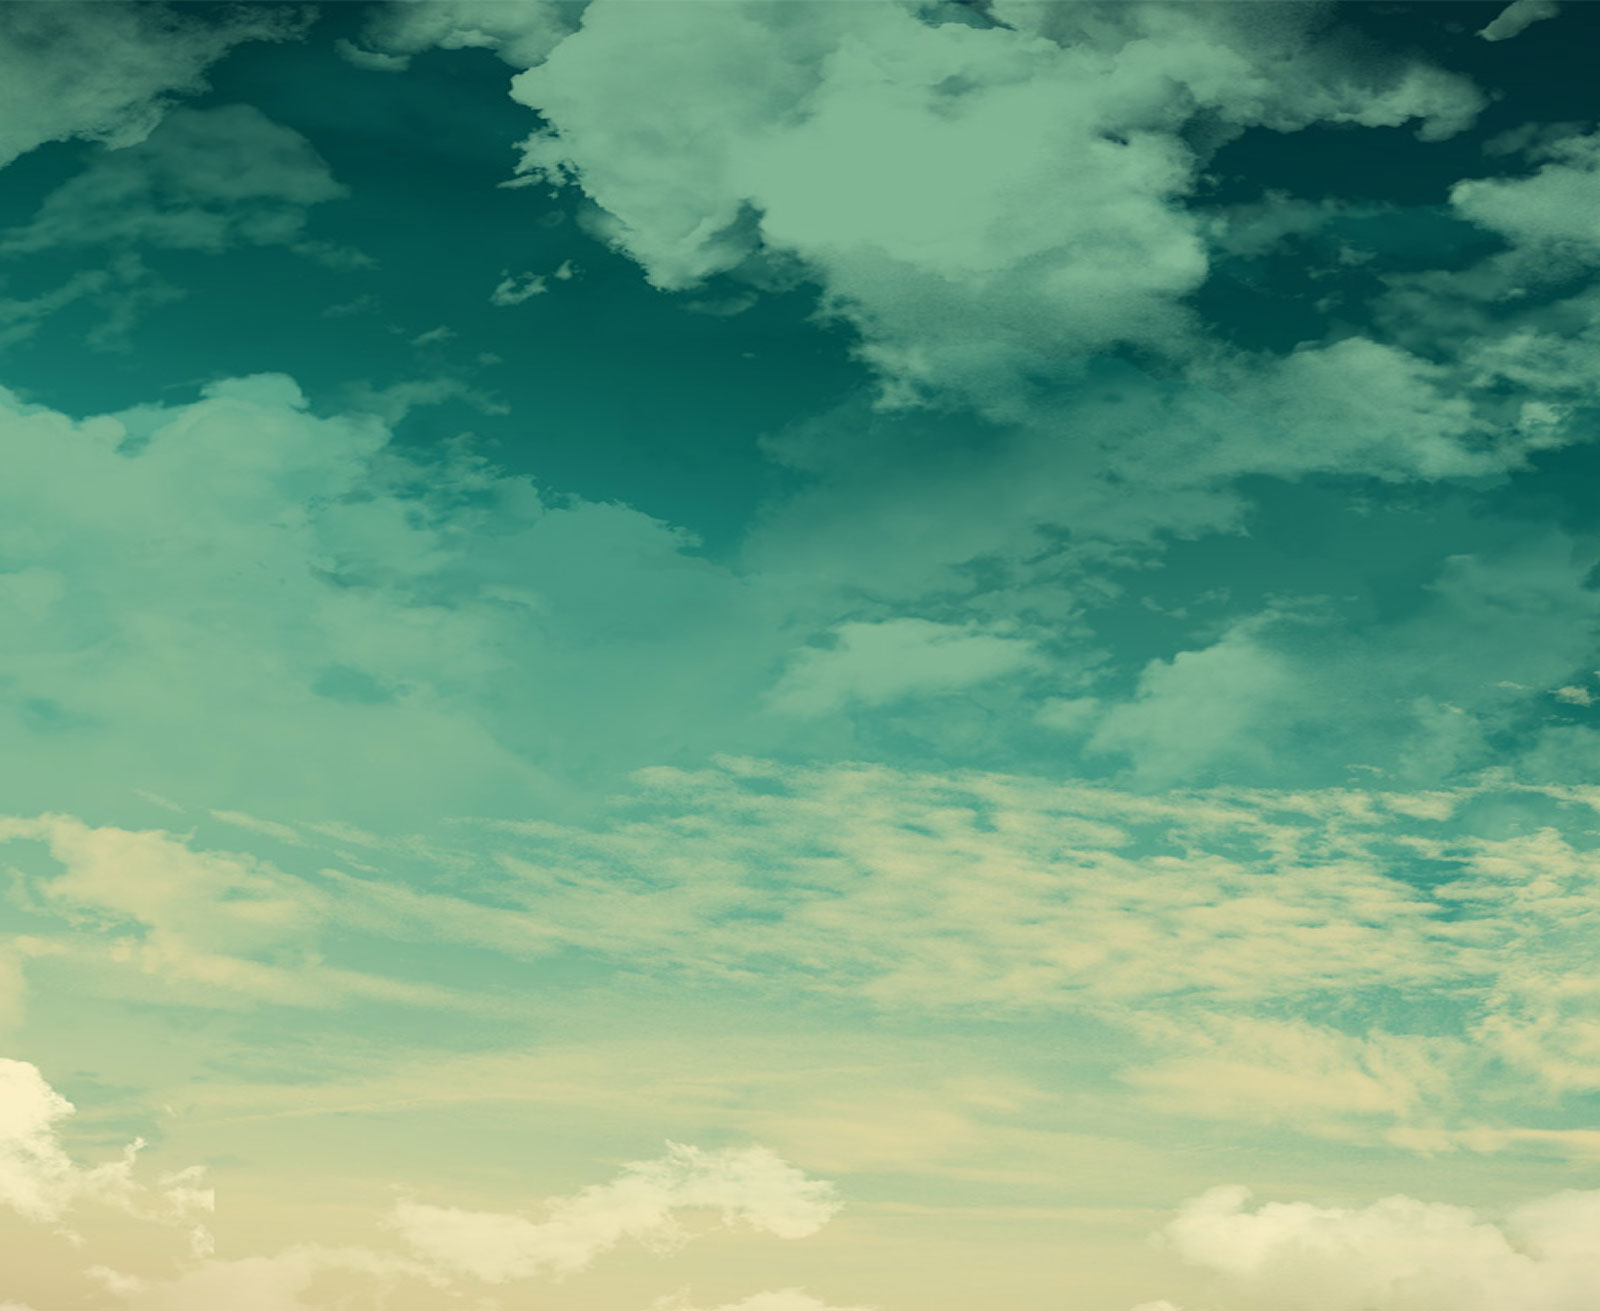
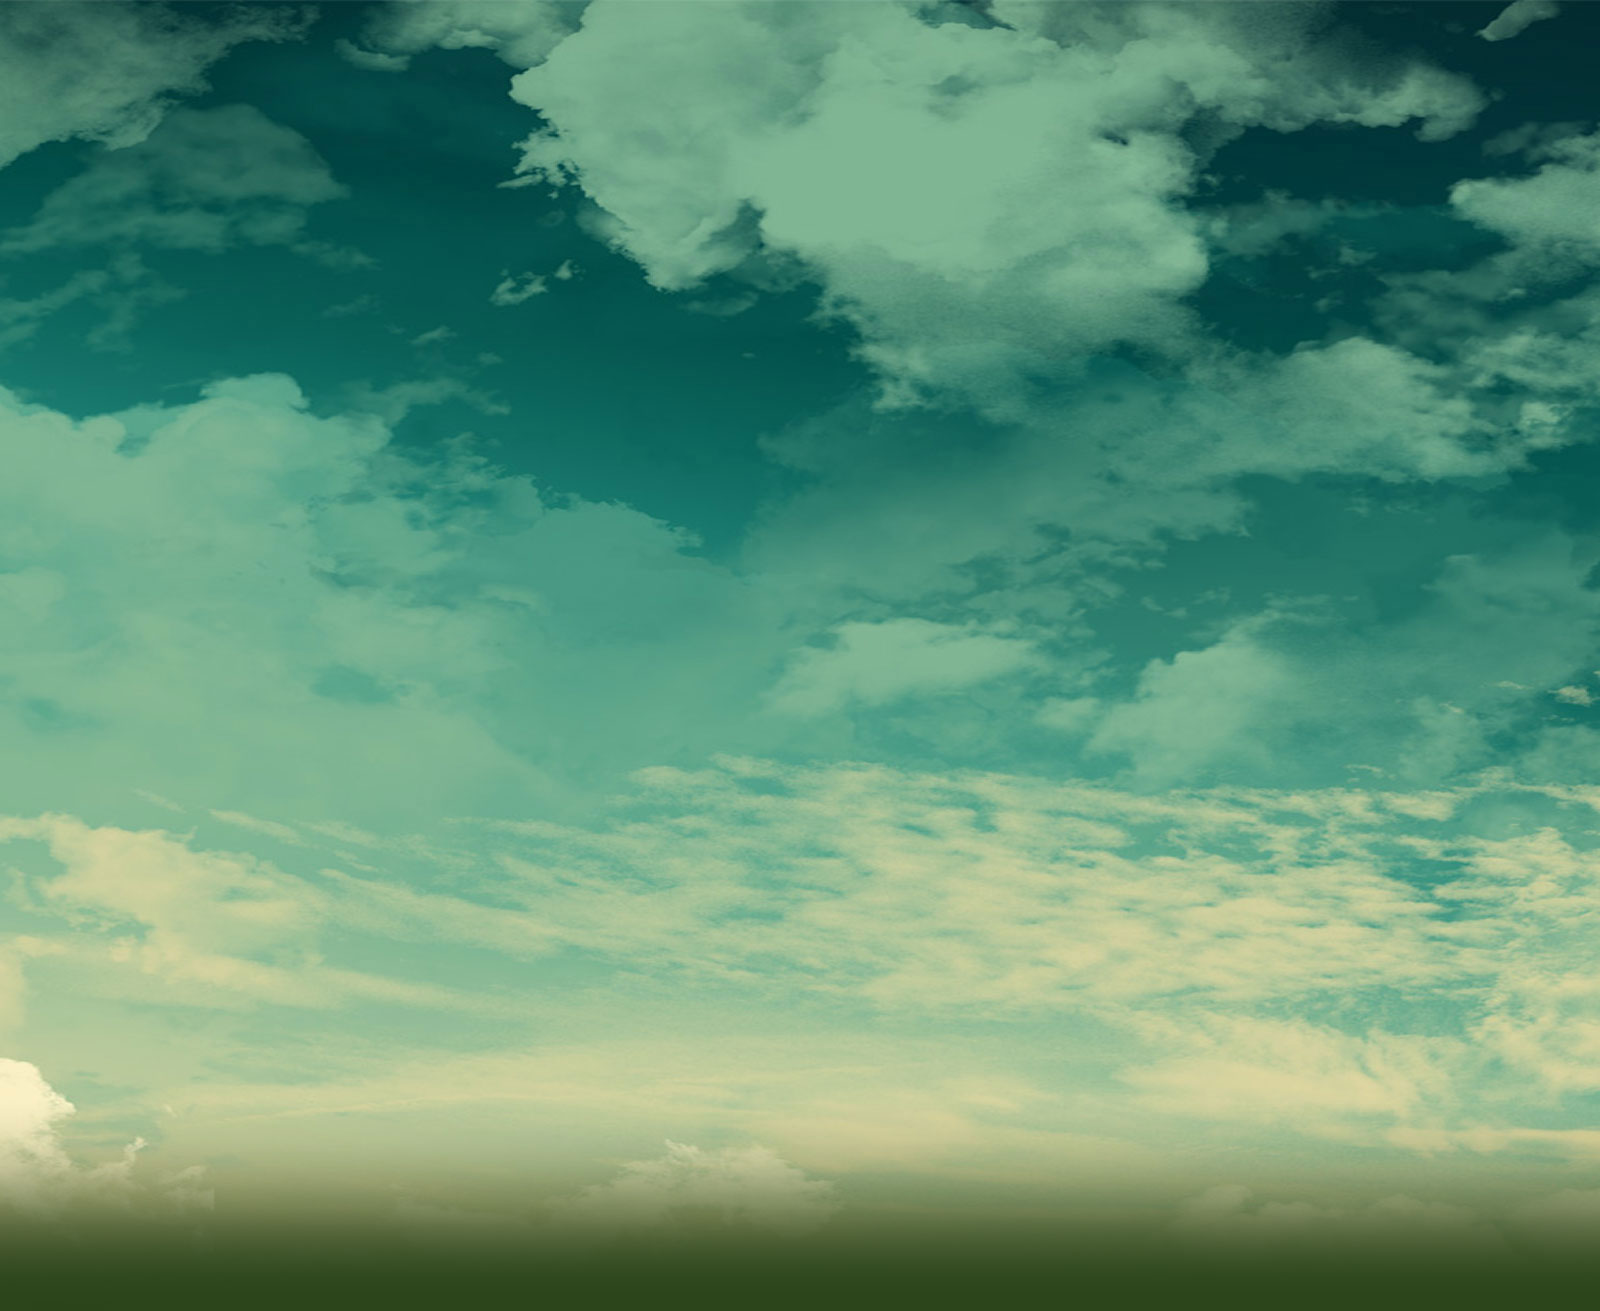
edit bg image

Changed region(s): [[0.0, 0.8543, 1.0, 1.0]]

diff --git a/html/index.html b/html/index.html
@@ -94,7 +94,7 @@ $(window).load(function() {
 				<li><a href="about.html">About</a></li>	
 				<li><a href="calendar.html">Calendar</a></li>	
 				<li><a href="sermons.html">Sermons</a></li>	
-				<li><a href="ministries.html">Ministries</a></li>																	
+				<li><a href="https://tithe.ly/give?c=1311359">Giving</a></li>																	
 				<li><a href="contact.html">Contact Us</a></li>											
 			</ul>
 		</div>
@@ -207,9 +207,9 @@ $(window).load(function() {
 <div class="span6">
 <div class="pad_left20 pad_right20">
 	<h1 class="home">Welcome<br><span>to Kendale Acres Church</span></h1>
-	<h4>
+	<p>
 		Welcome, and thank you for visiting us online today. Our goal, through our online ministry, is to supply needed information and resources to our church family and to introduce our community to the ministries here at Kendale Acres Church. Please take a few moments to look around and if you do not find the information you are looking for, feel free to contact us and we will do all we can to help assist you. 
-	</h4>
+	</p>
 	<p>
 		We are a ministry serving our Lord and Savior in Sanford, NC. We are a member of the National Association of Free Will Baptist. Together it is our desire and goal to reach the world with the message that Jesus Saves. We are a church where the Bible is believed and preached. Where people are friendly and sincerely glad to have you. A church where you are treated as a person not a number. Let me invite you to worship with us, I believe that you will enjoy your visit. 
 	</p>
@@ -293,6 +293,7 @@ Wednesday Bible Study: 7:00 p.m.
 				<div class="bot_title">Follow Us</div>
 				<ul class="ul_social">
 				  <li><a href="http://www.facebook.com/KendaleAcresChurch/"><img src="images/social_ic1.png" alt="" class="img"><span>Facebook</span></a></li>
+					<li><a href="https://www.youtube.com/channel/UC6BcqeNqHifES1-8_t4ZWxg"><img src="images/social_ic3.png" alt="" class="img"><span>Youtube</span></a></li>
 				  
 				</ul>
 			</div>

diff --git a/html/calendar.html b/html/calendar.html
@@ -74,7 +74,7 @@ $(window).load(function() {
 				<li><a href="about.html">About</a></li>	
 				<li class="active"><a href="calendar.html">Calendar</a></li>	
 				<li><a href="sermons.html">Sermons</a></li>	
-				<li><a href="ministries.html">Ministries</a></li>																	
+				<li><a href="https://tithe.ly/give?c=1311359">Giving</a></li>																	
 				<li><a href="contact.html">Contact Us</a></li>											
 			</ul>
 		</div>
@@ -98,7 +98,7 @@ $(window).load(function() {
 	<div class="txt1">But love your enemies, do good to them, and lend to them without expecting to get anything back. Then your reward will be great, and you will be sons of the Most High, because he is kind to the ungrateful and wicked.</div>
 	<div class="txt2">Luke 6:35</div>
 </div>	
-<div class="span3"><div class="txt3"><a href="https://tithe.ly/give?c=1311359" class="join">Donate Now</a></div></div>
+ 
 </div>	
 </div>
 </div>
@@ -157,6 +157,7 @@ $(window).load(function() {
 				<div class="bot_title">Follow Us</div>
 				<ul class="ul_social">
 				  <li><a href="http://www.facebook.com/KendaleAcresChurch/"><img src="images/social_ic1.png" alt="" class="img"><span>Facebook</span></a></li>
+					<li><a href="https://www.youtube.com/channel/UC6BcqeNqHifES1-8_t4ZWxg"><img src="images/social_ic3.png" alt="" class="img"><span>Youtube</span></a></li>
 				  
 				</ul>
 			</div>

diff --git a/html/about.html b/html/about.html
@@ -74,7 +74,7 @@ $(window).load(function() {
 				<li class="active"><a href="about.html">About</a></li>	
 				<li><a href="calendar.html">Calendar</a></li>	
 				<li><a href="sermons.html">Sermons</a></li>	
-				<li><a href="ministries.html">Ministries</a></li>																	
+				<li><a href="https://tithe.ly/give?c=1311359">Giving</a></li>																	
 				<li><a href="contact.html">Contact Us</a></li>											
 			</ul>
 		</div>
@@ -98,7 +98,7 @@ $(window).load(function() {
 	<div class="txt1">No one can serve two masters. Either he will hate the one and love the other, or he will be devoted to the one and despise the other. You cannot serve both God and Money.</div>
 	<div class="txt2">Matthew 6:24</div>
 </div>	
-<div class="span3"><div class="txt3"><a href="https://tithe.ly/give?c=1311359" class="join">Donate Now</a></div></div>
+ 
 </div>	
 </div>
 </div>
@@ -304,6 +304,7 @@ $(window).load(function() {
 				<div class="bot_title">Follow Us</div>
 				<ul class="ul_social">
 				  <li><a href="http://www.facebook.com/KendaleAcresChurch/"><img src="images/social_ic1.png" alt="" class="img"><span>Facebook</span></a></li>
+					<li><a href="https://www.youtube.com/channel/UC6BcqeNqHifES1-8_t4ZWxg"><img src="images/social_ic3.png" alt="" class="img"><span>Youtube</span></a></li>
 				  
 				</ul>
 			</div>

diff --git a/html/contact.html b/html/contact.html
@@ -84,7 +84,7 @@ function initialize() {
 				<li><a href="about.html">About</a></li>	
 				<li><a href="calendar.html">Calendar</a></li>	
 				<li><a href="sermons.html">Sermons</a></li>	
-				<li><a href="ministries.html">Ministries</a></li>																	
+				<li><a href="https://tithe.ly/give?c=1311359">Giving</a></li>																	
 				<li class="active"><a href="contact.html">Contact Us</a></li>											
 			</ul>
 		</div>
@@ -108,7 +108,7 @@ function initialize() {
 	<div class="txt1">they love to be greeted in the marketplaces and to have men call them 'Rabbi.'  "But you are not to be called 'Rabbi,' for you have only one Master and you are all brothers.</div>
 	<div class="txt2">Matthew 23:6-8</div>
 </div>	
-<div class="span3"><div class="txt3"><a href="https://tithe.ly/give?c=1311359" class="join">Donate Now</a></div></div>
+ 
 </div>	
 </div>
 </div>
@@ -223,6 +223,7 @@ function initialize() {
 				<div class="bot_title">Follow Us</div>
 				<ul class="ul_social">
 				  <li><a href="http://www.facebook.com/KendaleAcresChurch/"><img src="images/social_ic1.png" alt="" class="img"><span>Facebook</span></a></li>
+					<li><a href="https://www.youtube.com/channel/UC6BcqeNqHifES1-8_t4ZWxg"><img src="images/social_ic3.png" alt="" class="img"><span>Youtube</span></a></li>
 				  
 				</ul>
 			</div>

diff --git a/html/404.html b/html/404.html
@@ -89,7 +89,7 @@ $(window).load(function() {
 					</ul>						
 				</li>
 				<li><a href="sermons.html">sermons</a></li>	
-				<li><a href="ministries.html">ministries</a></li>																	
+				<li><a href="https://tithe.ly/give?c=1311359">Giving</a></li>																	
 				<li><a href="contact.html">contact us</a></li>											
 			</ul>
 		</div>
@@ -113,7 +113,7 @@ $(window).load(function() {
 	<div class="txt1">'Love the Lord your God with all your heart and with all your soul and with all your mind.'  This is the first and greatest commandment.  And the second is like it: 'Love your neighbor as yourself.'</div>
 	<div class="txt2">Matthew 22:37-39</div>
 </div>	
-<div class="span3"><div class="txt3"><a href="https://tithe.ly/give?c=1311359" class="join">Donate Now</a></div></div>
+ 
 </div>	
 </div>
 </div>
@@ -217,6 +217,7 @@ $(window).load(function() {
 				<div class="bot_title">Follow Us</div>
 				<ul class="ul_social">
 				  <li><a href="http://www.facebook.com/KendaleAcresChurch/"><img src="images/social_ic1.png" alt="" class="img"><span>Facebook</span></a></li>
+					<li><a href="https://www.youtube.com/channel/UC6BcqeNqHifES1-8_t4ZWxg"><img src="images/social_ic3.png" alt="" class="img"><span>Youtube</span></a></li>
 				  
 				</ul>
 			</div>

diff --git a/html/sermons.html b/html/sermons.html
@@ -74,7 +74,7 @@ $(window).load(function() {
 				<li><a href="about.html">About</a></li>	
 				<li><a href="calendar.html">Calendar</a></li>	
 				<li class="active"><a href="sermons.html">Sermons</a></li>	
-				<li><a href="ministries.html">Ministries</a></li>																	
+				<li><a href="https://tithe.ly/give?c=1311359">Giving</a></li>																	
 				<li><a href="contact.html">Contact Us</a></li>											
 			</ul>
 		</div>
@@ -98,7 +98,7 @@ $(window).load(function() {
 	<div class="txt1">However, each one of you also must love his wife as he loves himself, and the wife must respect her husband.</div>
 	<div class="txt2">Ephesians 5:33</div>
 </div>	
-<div class="span3"><div class="txt3"><a href="https://tithe.ly/give?c=1311359" class="join">Donate Now</a></div></div>
+ 
 </div>	
 </div>
 </div>
@@ -177,6 +177,7 @@ $(window).load(function() {
 				<div class="bot_title">Follow Us</div>
 				<ul class="ul_social">
 				  <li><a href="http://www.facebook.com/KendaleAcresChurch/"><img src="images/social_ic1.png" alt="" class="img"><span>Facebook</span></a></li>
+					<li><a href="https://www.youtube.com/channel/UC6BcqeNqHifES1-8_t4ZWxg"><img src="images/social_ic3.png" alt="" class="img"><span>Youtube</span></a></li>
 				  
 				</ul>
 			</div>

diff --git a/html/media.html b/html/media.html
@@ -123,7 +123,7 @@ $(window).load(function() {
 					</ul>						
 				</li>
 				<li><a href="sermons.html">sermons</a></li>	
-				<li><a href="ministries.html">ministries</a></li>																	
+				<li><a href="https://tithe.ly/give?c=1311359">Giving</a></li>																	
 				<li><a href="contact.html">contact us</a></li>											
 			</ul>
 		</div>
@@ -147,7 +147,7 @@ $(window).load(function() {
 	<div class="txt1">There is no fear in love. But perfect love drives out fear, because fear has to do with punishment. The one who fears is not made perfect in love.  We love because he first loved us.</div>
 	<div class="txt2">1 John 4:18-19</div>
 </div>	
-<div class="span3"><div class="txt3"><a href="https://tithe.ly/give?c=1311359" class="join">Donate Now</a></div></div>
+ 
 </div>	
 </div>
 </div>
@@ -339,6 +339,7 @@ $(window).load(function() {
 				<div class="bot_title">Follow Us</div>
 				<ul class="ul_social">
 				  <li><a href="http://www.facebook.com/KendaleAcresChurch/"><img src="images/social_ic1.png" alt="" class="img"><span>Facebook</span></a></li>
+					<li><a href="https://www.youtube.com/channel/UC6BcqeNqHifES1-8_t4ZWxg"><img src="images/social_ic3.png" alt="" class="img"><span>Youtube</span></a></li>
 				  
 				</ul>
 			</div>

diff --git a/html/ministries.html b/html/ministries.html
@@ -98,7 +98,7 @@ $(window).load(function() {
 	<div class="txt1">'Love the Lord your God with all your heart and with all your soul and with all your mind.'  This is the first and greatest commandment.  And the second is like it: 'Love your neighbor as yourself.'</div>
 	<div class="txt2">Matthew 22:37-39</div>
 </div>	
-<div class="span3"><div class="txt3"><a href="https://tithe.ly/give?c=1311359" class="join">Donate Now</a></div></div>
+ 
 </div>	
 </div>
 </div>
@@ -204,6 +204,7 @@ $(window).load(function() {
 				<div class="bot_title">Follow Us</div>
 				<ul class="ul_social">
 				  <li><a href="http://www.facebook.com/KendaleAcresChurch/"><img src="images/social_ic1.png" alt="" class="img"><span>Facebook</span></a></li>
+					<li><a href="https://www.youtube.com/channel/UC6BcqeNqHifES1-8_t4ZWxg"><img src="images/social_ic3.png" alt="" class="img"><span>Youtube</span></a></li>
 				  
 				</ul>
 			</div>

diff --git a/html/search.php b/html/search.php
@@ -91,7 +91,7 @@ $(window).load(function() {
 					</ul>						
 				</li>
 				<li><a href="sermons.html">sermons</a></li>	
-				<li><a href="ministries.html">ministries</a></li>																	
+				<li><a href="https://tithe.ly/give?c=1311359">Giving</a></li>																	
 				<li><a href="contact.html">contact us</a></li>											
 			</ul>
 		</div>
@@ -115,7 +115,7 @@ $(window).load(function() {
 	<div class="txt1">'Love the Lord your God with all your heart and with all your soul and with all your mind.'  This is the first and greatest commandment.  And the second is like it: 'Love your neighbor as yourself.'</div>
 	<div class="txt2">Matthew 22:37-39</div>
 </div>	
-<div class="span3"><div class="txt3"><a href="https://tithe.ly/give?c=1311359" class="join">Donate Now</a></div></div>
+ 
 </div>	
 </div>
 </div>
@@ -181,6 +181,7 @@ $(window).load(function() {
 				<div class="bot_title">Follow Us</div>
 				<ul class="ul_social">
 				  <li><a href="http://www.facebook.com/KendaleAcresChurch/"><img src="images/social_ic1.png" alt="" class="img"><span>Facebook</span></a></li>
+					<li><a href="https://www.youtube.com/channel/UC6BcqeNqHifES1-8_t4ZWxg"><img src="images/social_ic3.png" alt="" class="img"><span>Youtube</span></a></li>
 				  
 				</ul>
 			</div>
